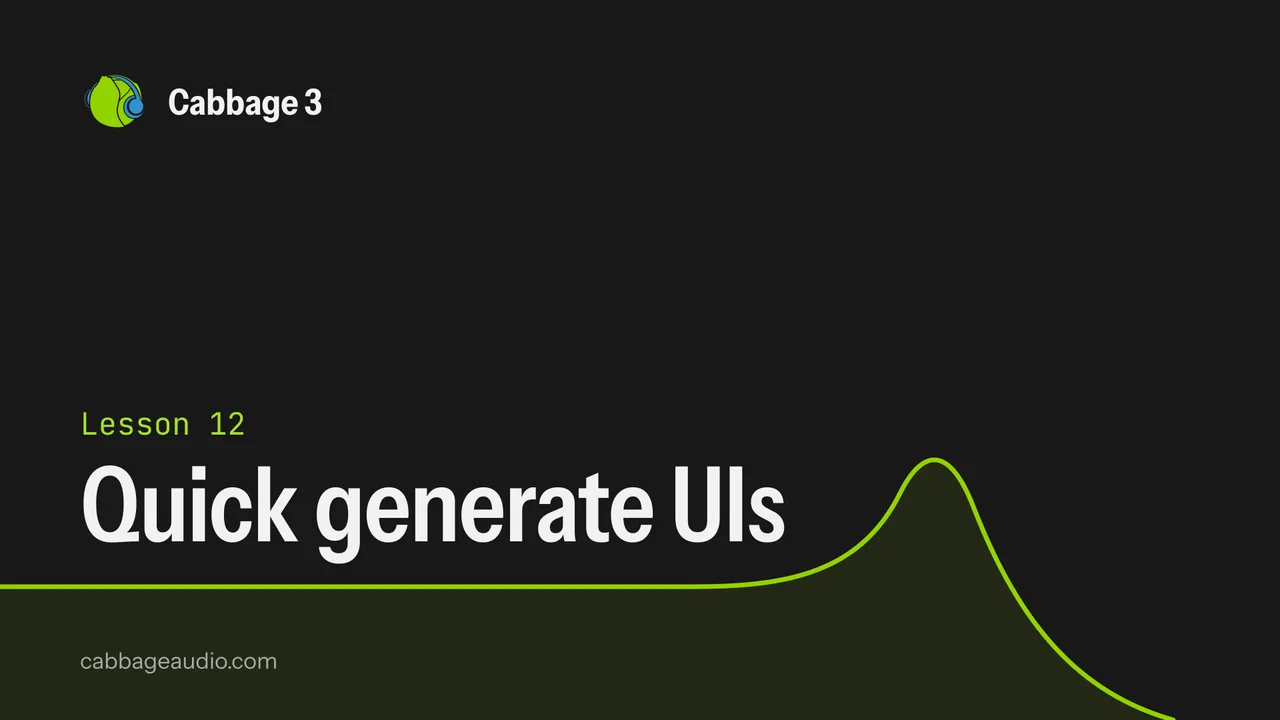
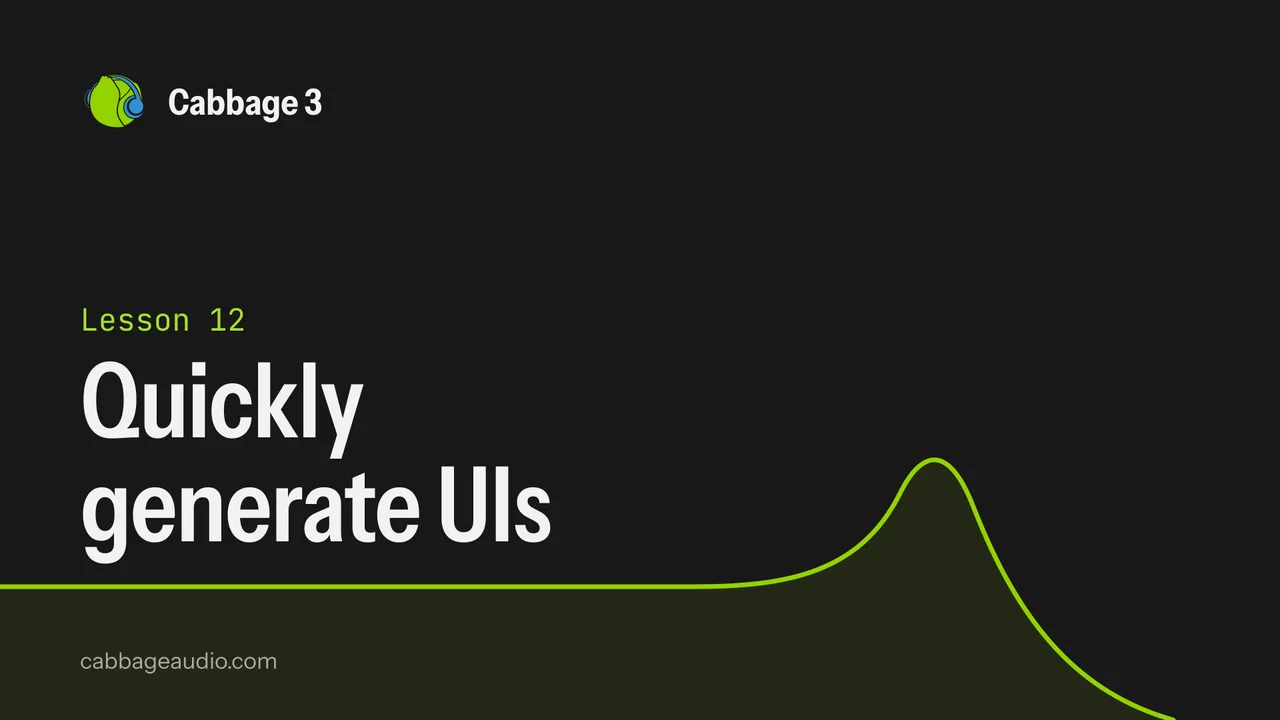
Rename lesson 12: Quickly generate UIs

Changed region(s): [[0.0625, 0.6417, 0.625, 0.7944], [0.0625, 0.4889, 0.2812, 0.6417], [0.0625, 0.4278, 0.1875, 0.4583]]

diff --git a/src/data/videos.ts b/src/data/videos.ts
@@ -34,7 +34,7 @@ export const videos: Video[] = [
 	{ id: 'lKrG_--aVGk', lesson: 9, title: 'Exporting instruments in Cabbage 3', shortTitle: 'Exporting instruments' },
 	{ id: 'ML7iq1PYhU8', lesson: 10, title: 'Custom UIs with Cabbage 3', shortTitle: 'Custom UIs' },
 	{ id: 'gLdVu9PsK_k', lesson: 11, title: 'Custom Widgets in Cabbage 3', shortTitle: 'Custom Widgets' },
-	{ id: 'wfOSomZLxEM', lesson: 12, title: 'Quick UIs in Cabbage 3', shortTitle: 'Quick generate UIs' },
+	{ id: 'wfOSomZLxEM', lesson: 12, title: 'Quickly generate UIs in Cabbage 3', shortTitle: 'Quickly generate UIs' },
 ];
 
 /** "Overview" or "Lesson 8". */
